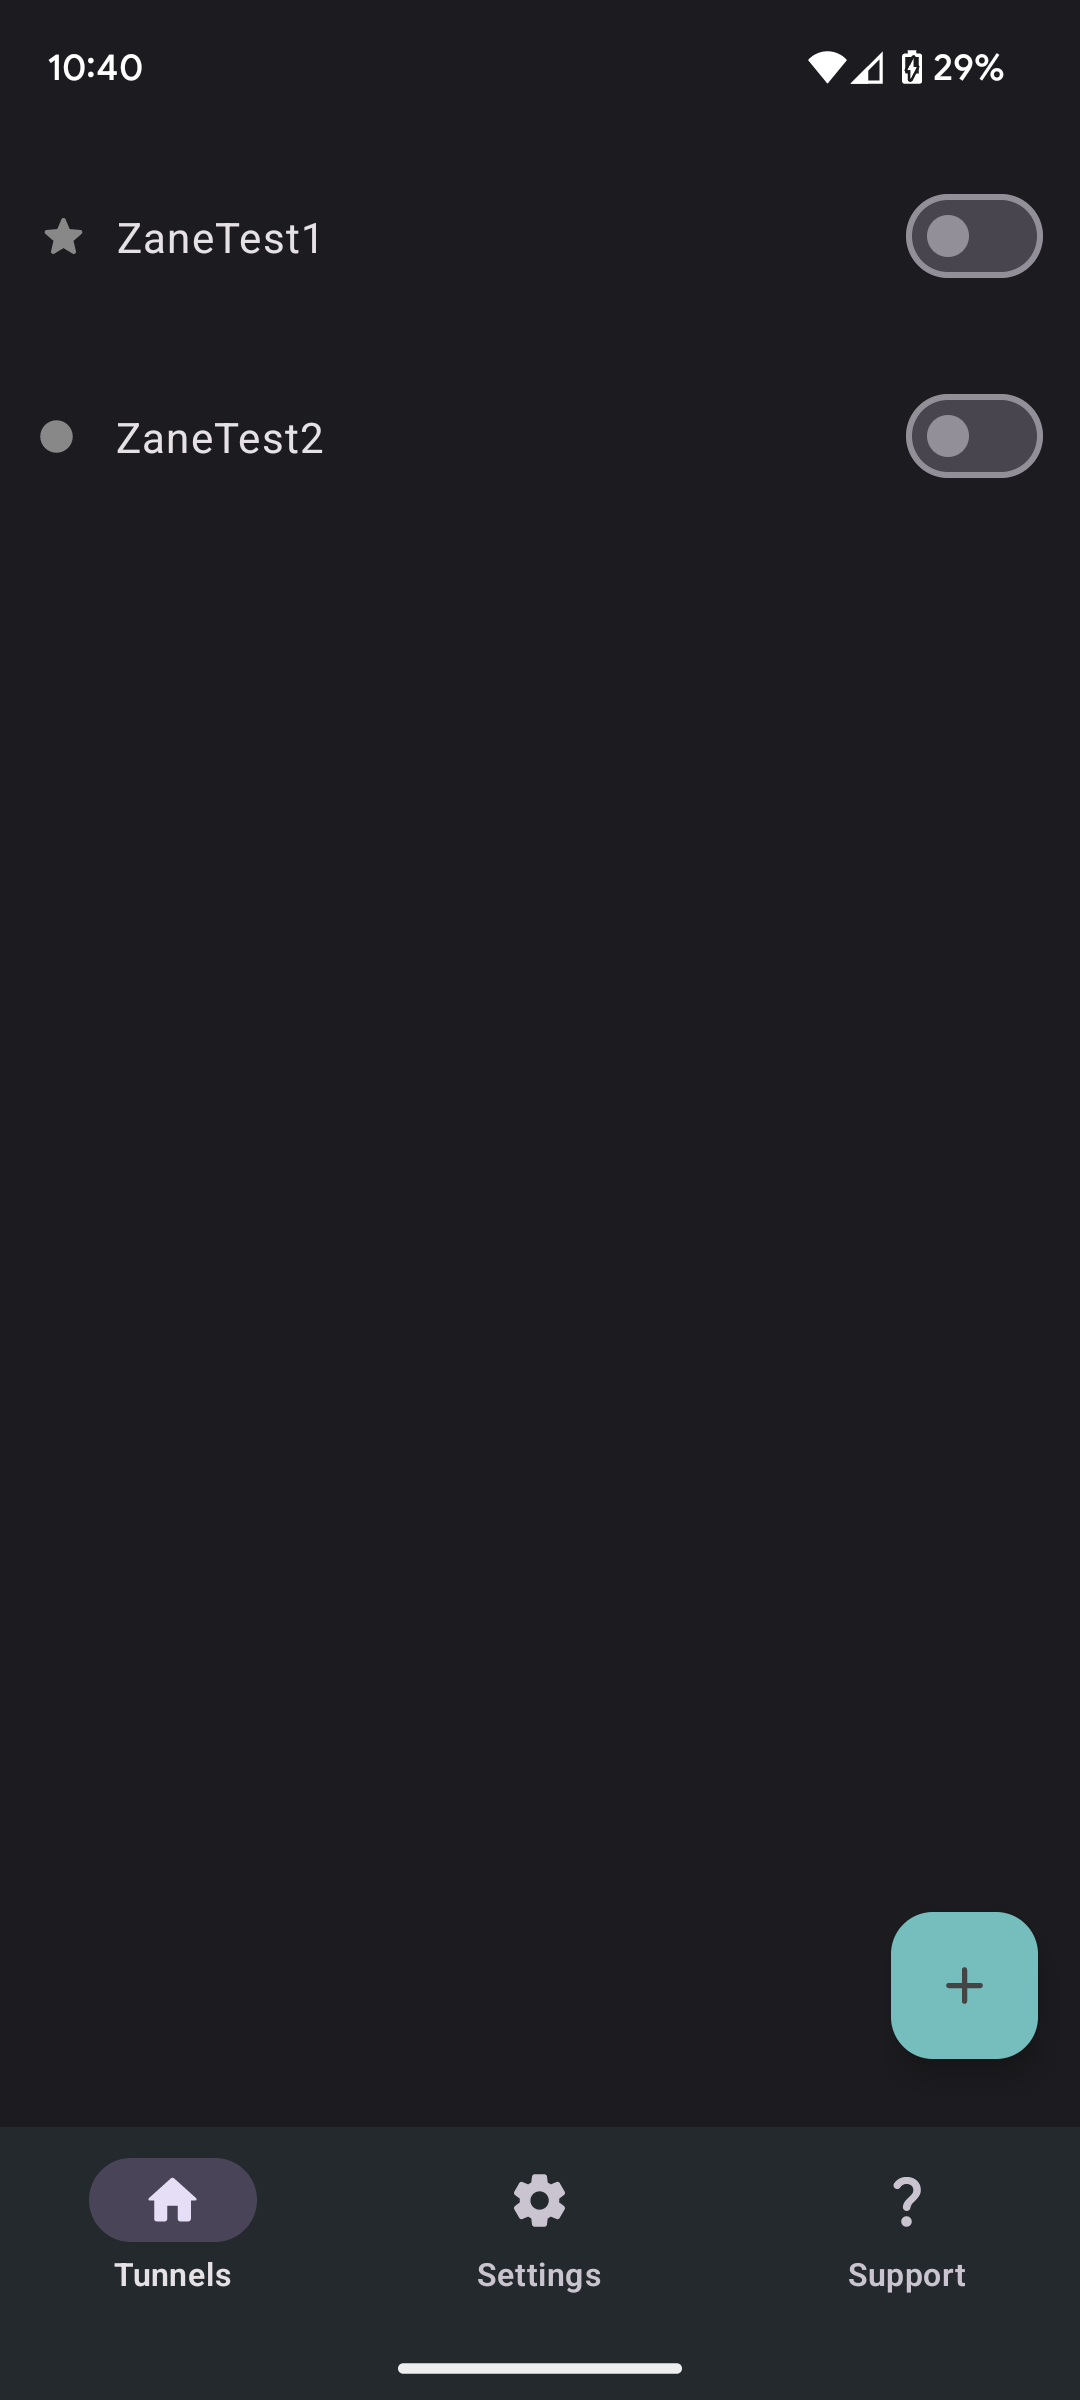
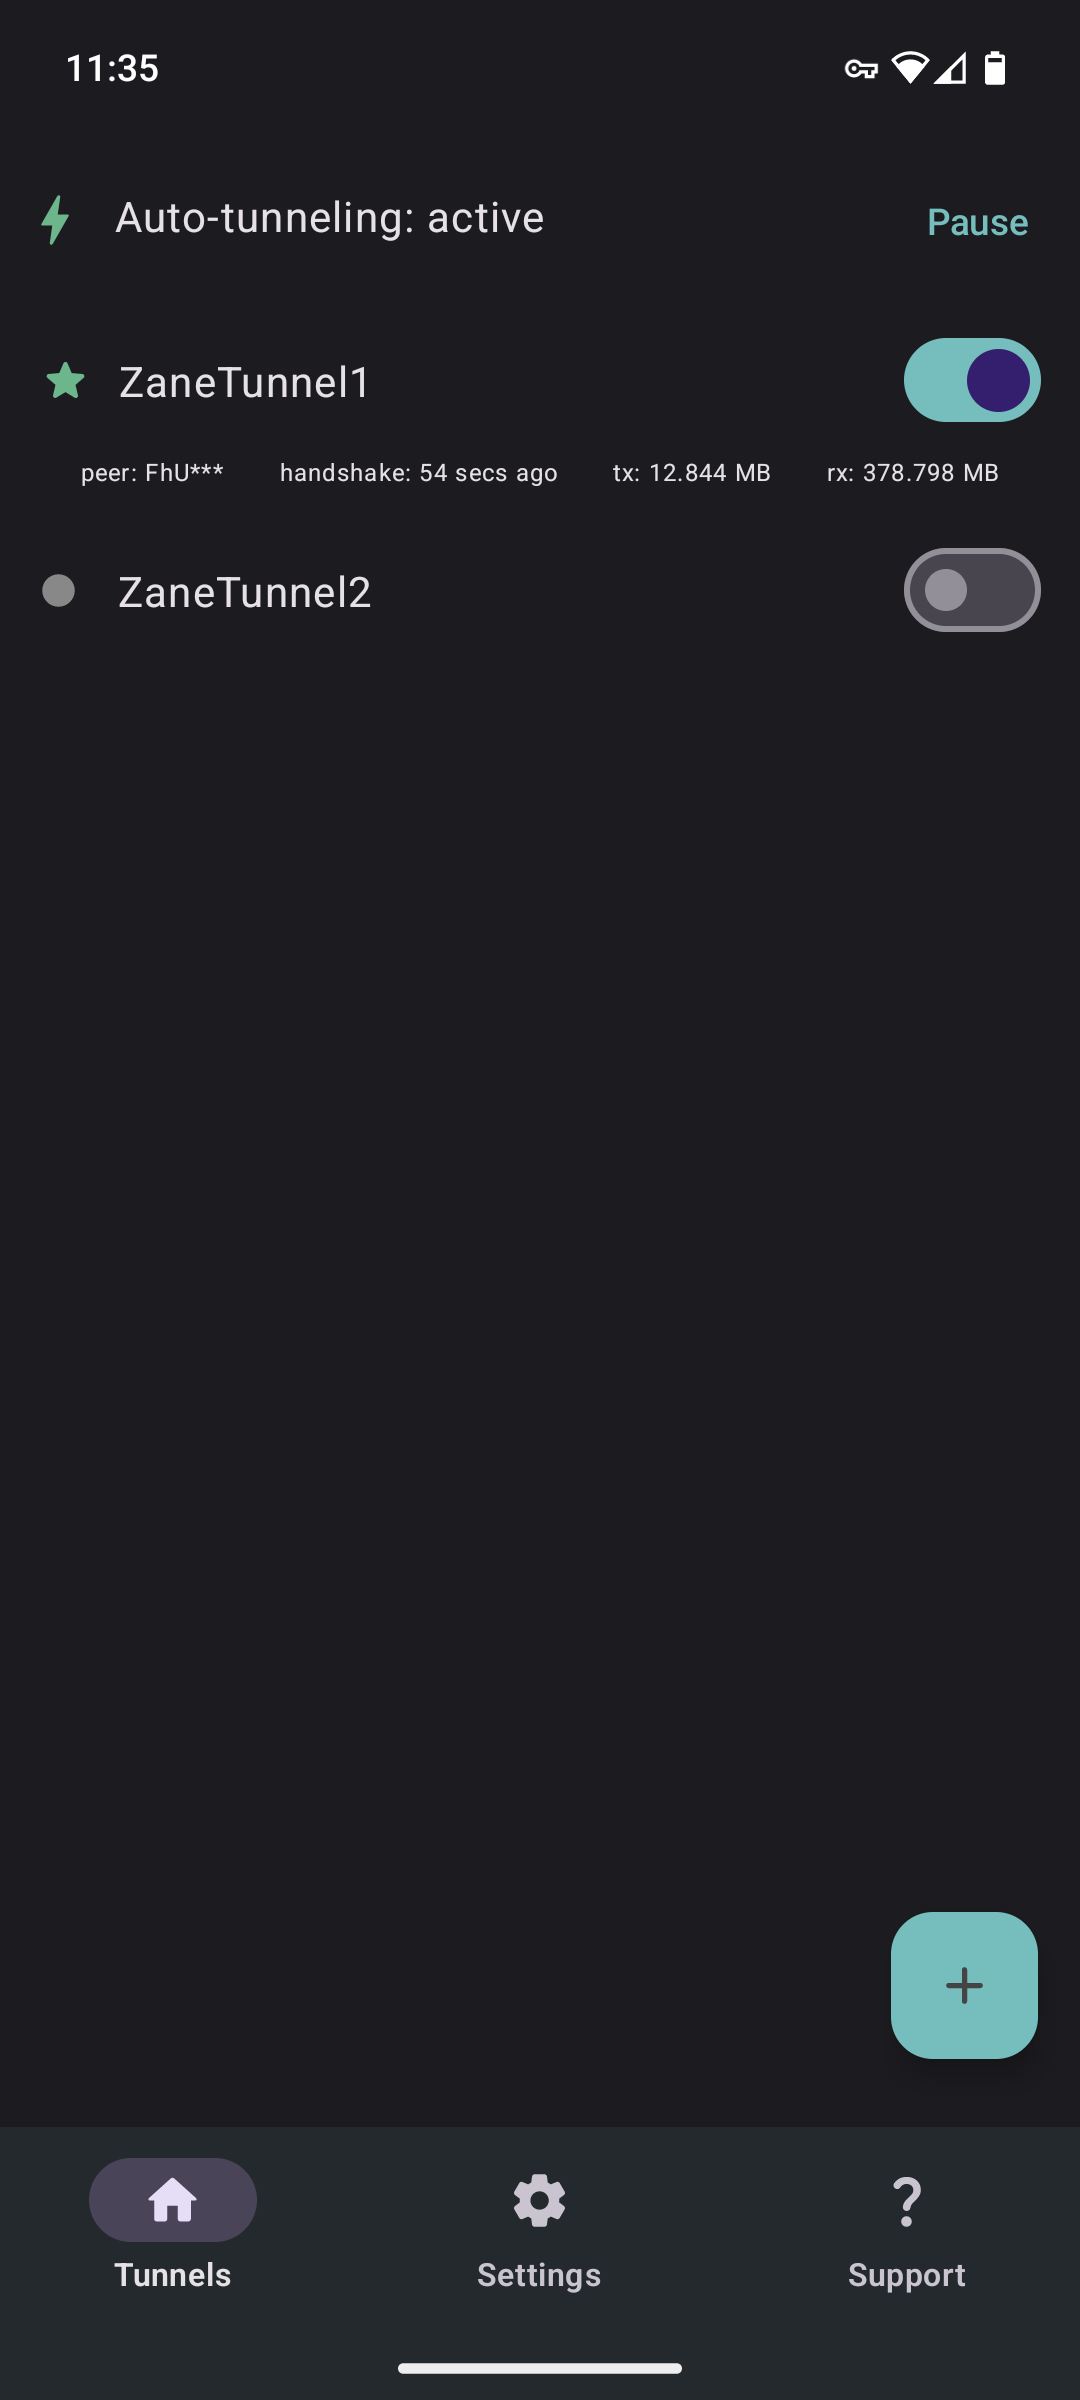
docs: update README

diff --git a/README.md b/README.md
@@ -37,10 +37,10 @@ This is an alternative Android Application for [WireGuard](https://www.wireguard
 ## Screenshots
 
 <p float="center">
-  <img label="Main" style="padding-right:25px" src="asset/main_screen.png" width="200" />
-  <img label="Config" style="padding-left:25px" src="asset/config_screen.png" width="200" />
-  <img label="Settings" style="padding-left:25px" src="asset/settings_screen.png" width="200" />
-  <img label="Support" style="padding-left:25px" src="asset/support_screen.png" width="200" />
+  <img label="Main" style="padding-right:25px" src="fastlane/metadata/android/en-US/images/phoneScreenshots/main_screen.png" width="200" />
+  <img label="Config" style="padding-left:25px" src="fastlane/metadata/android/en-US/images/phoneScreenshots/config_screen.png" width="200" />
+  <img label="Settings" style="padding-left:25px" src="fastlane/metadata/android/en-US/images/phoneScreenshots/settings_screen.png" width="200" />
+  <img label="Support" style="padding-left:25px" src="fastlane/metadata/android/en-US/images/phoneScreenshots/support_screen.png" width="200" />
 </p>
 
 <div align="left">
@@ -52,16 +52,16 @@ The original inspiration for this app came from the inconvenience of having to m
 ## Features
 
 * Add tunnels via .conf file, zip, manual entry, or QR code
-* Auto connect to VPN based on Wi-Fi SSID
+* Auto connect to VPN based on Wi-Fi SSID, ethernet, or mobile data
 * Split tunneling by application with search
-* Always-on VPN for Android support
+* WireGuard support for kernel and userspace modes
+* Always-On VPN support
 * Export tunnels to zip
 * Quick tile support for VPN toggling
 * Static shortcuts support for primary tunnel for automation integration
 * Intent automation support for all tunnels
-* Optional auto connect on mobile data, ethernet
 * Automatic service restart after reboot
-* Service will stay running in background after app has been closed
+* Battery preservation measures
 
 
 ## Building
